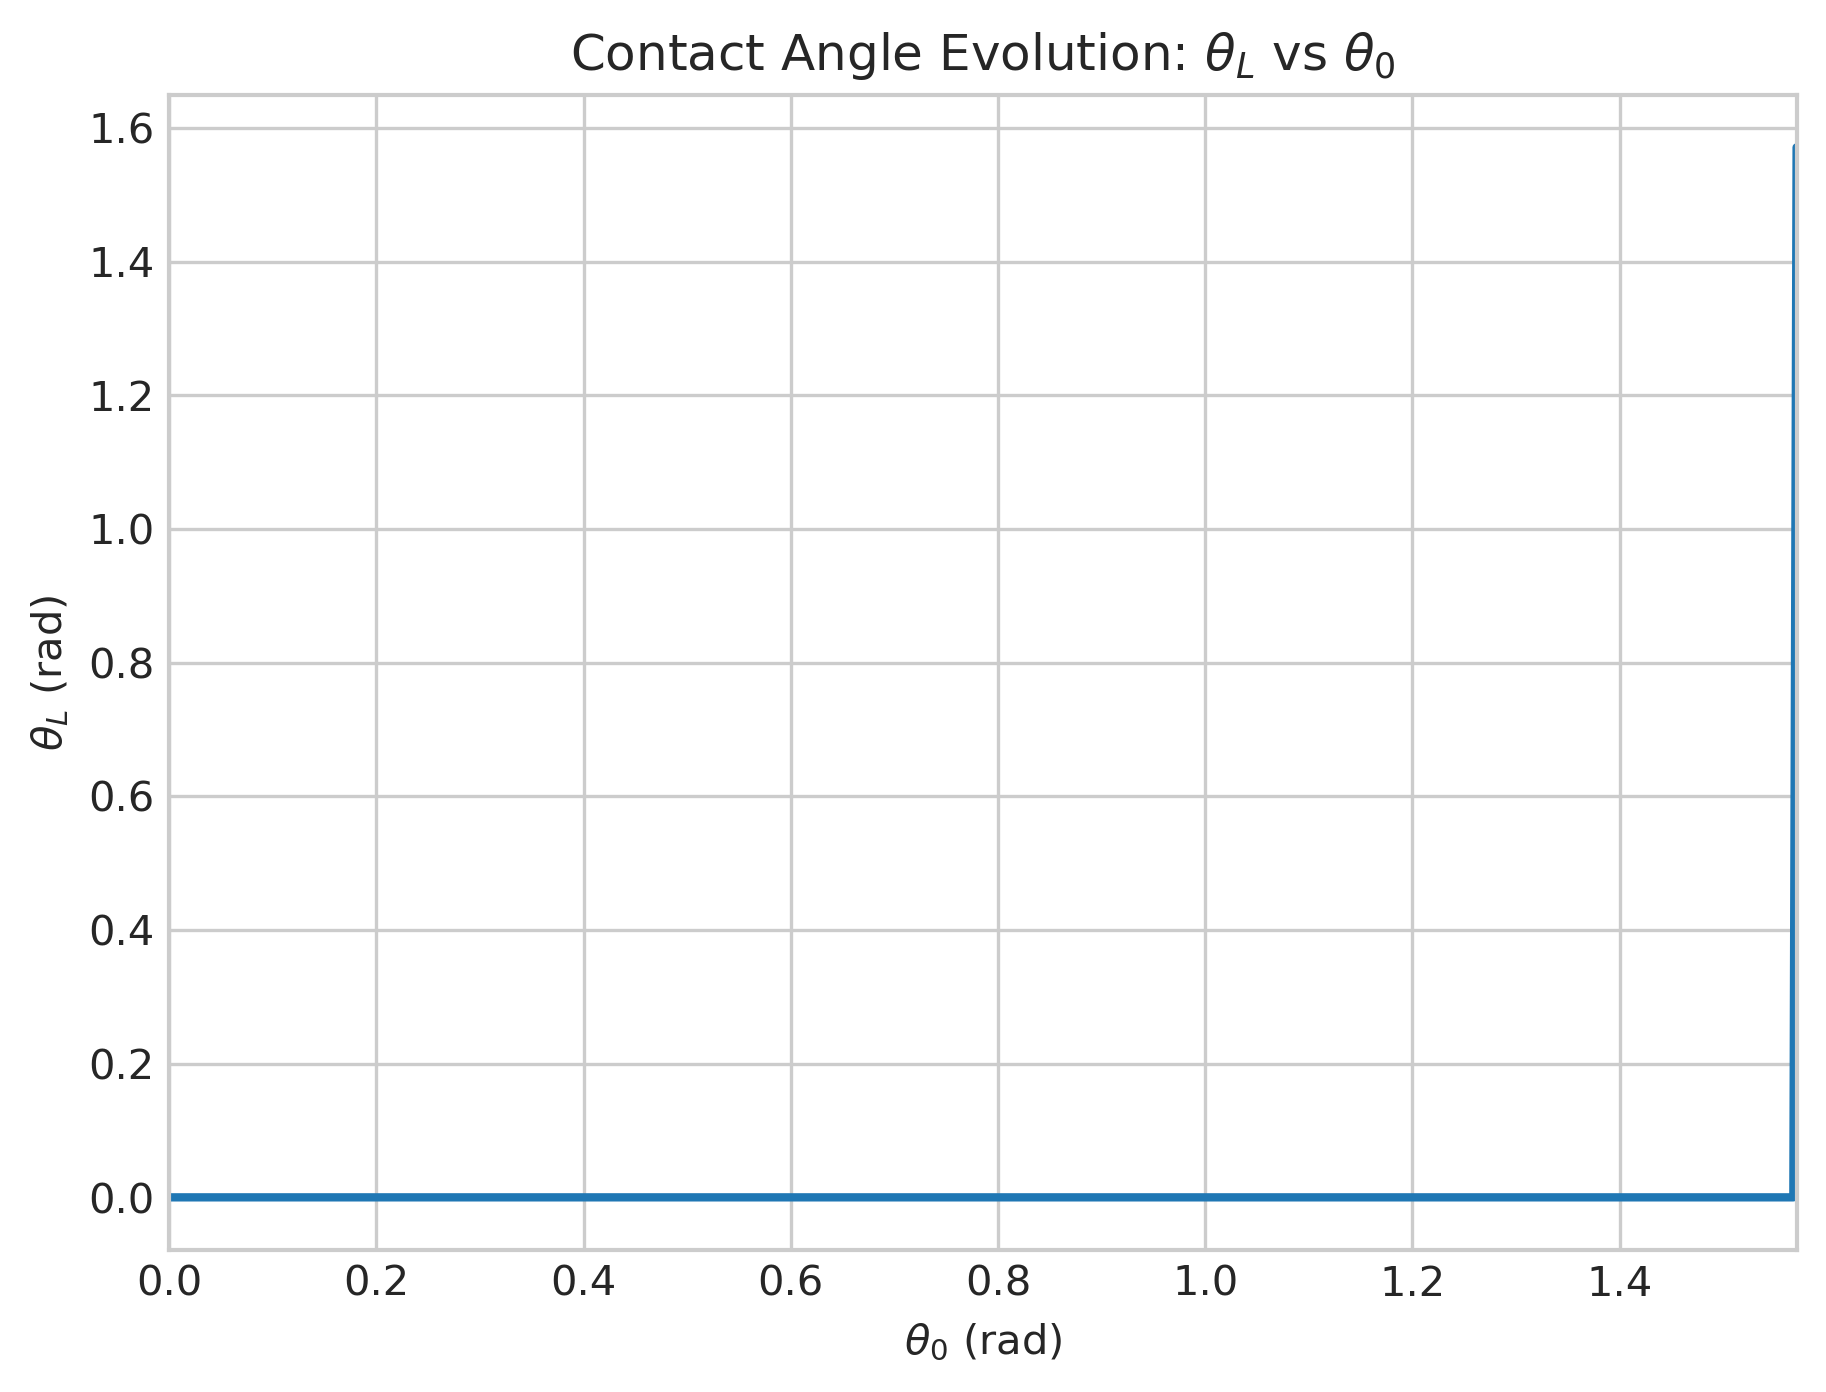
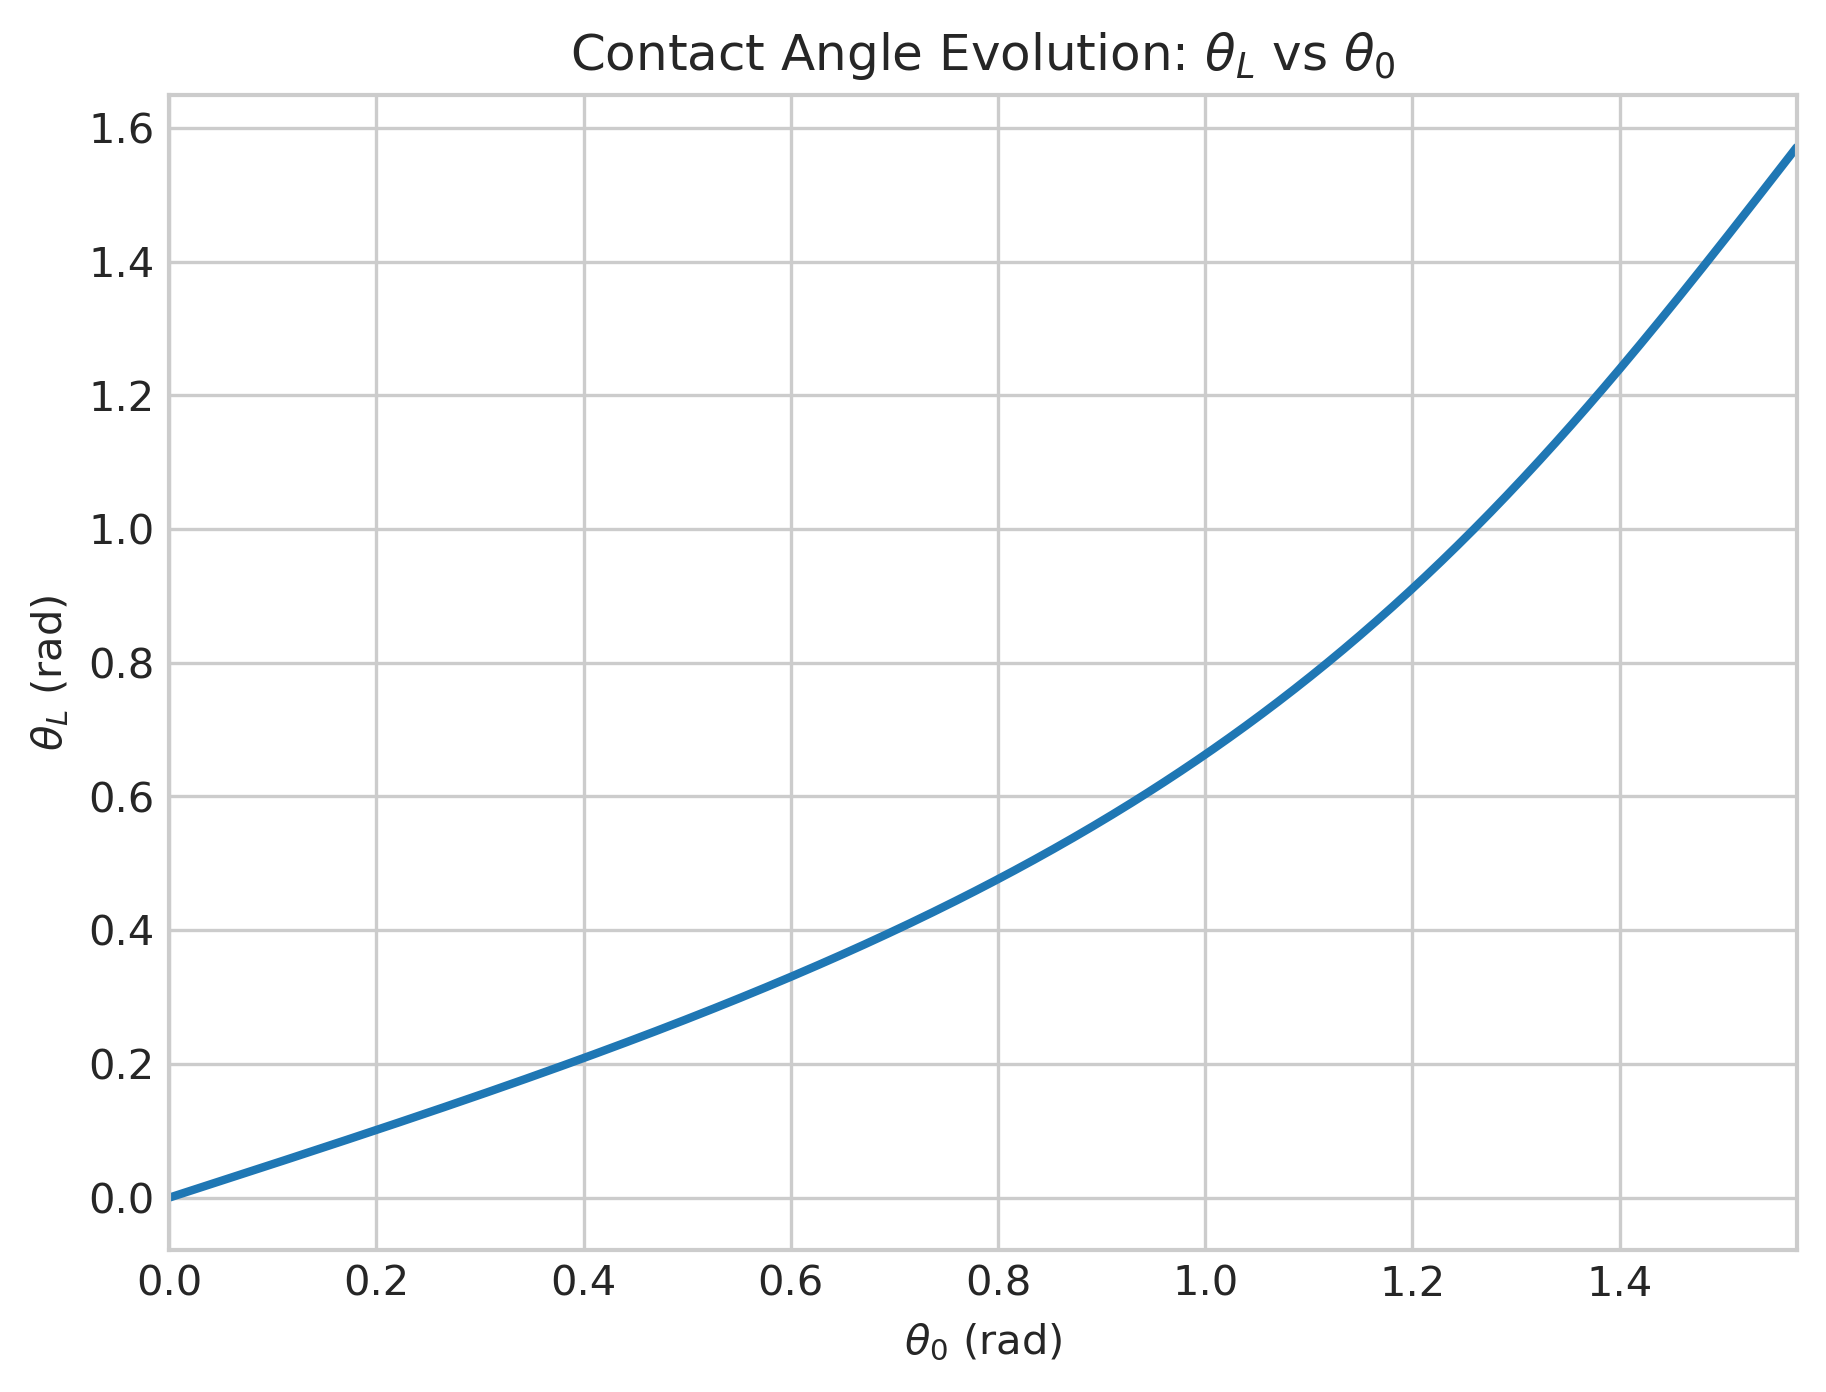
some updates

diff --git a/wedge/thin_film_solver.py b/wedge/thin_film_solver.py
@@ -119,9 +119,7 @@ def compute_curvature(sol, params, x):
 
     return kappa
 
-from scipy.integrate import simpson
-
-def theta_L(theta0, sol, params, nx=1000):
+def theta_L(theta0, sol, params):
     """
     Compute theta_L for an array of theta_0 values.
 
@@ -130,35 +128,27 @@ def theta_L(theta0, sol, params, nx=1000):
     theta0  : 1-d array of initial angles
     sol     : scipy.integrate.solve_bvp result
     params  : dataclass with mu, gamma, v_web, beta, L
-    nx      : number of quadrature points for the integral
 
     Returns
     -------
     thetaL  : 1-d array, same shape as theta0
     """
     p = params
-    x = np.linspace(0, p.L, nx)
+    coeff = p.gamma / (3 * p.mu) # 3 is for average, 2 is for top
 
-    # Evaluate BVP solution
-    y = sol.sol(x)
-    h    = y[0]
-    hp   = y[1]
-    hppp = y[3]
+    # Evaluate u(x) = v_web*sin(beta) + (gamma/2mu)*h'''*h^2 at endpoints
+    y0 = sol.sol(.01*p.L)
+    yL = sol.sol(.99*p.L)
 
-    # h'''' from the ODE RHS
-    h_safe = np.where(np.abs(h) > 1e-8, h, 1e-8)
-    hpppp = (-hp * hppp
-             - (3 * p.mu / p.gamma)
-               * (p.v_evap + p.v_web * np.sin(p.beta) * hp)) / h_safe
+    u0 = p.v_web * np.sin(p.beta) + coeff * y0[3] * y0[0]**2
+    uL = p.v_web * np.sin(p.beta) + coeff * yL[3] * yL[0]**2
 
-    # Integrand N(x) / D(x)
-    coeff = p.gamma / (2 * p.mu)
-    N = coeff * (hpppp * h**2 + 2 * h * hp * hppp)
-    D = p.v_web * np.sin(p.beta) + coeff * hppp * h**2
-
-    integrand = N / D
-    I = simpson(integrand, x=x)
-
+    I = np.log(np.abs(uL / u0))
+    
+    # Some prints to check some things
+    #print(f'u0: {u0}')
+    #print(f'uL: {uL}')
+    
     # theta_L for each theta_0
     T = np.arctanh(np.cos(2 * theta0)) + I
     thetaL = 0.5 * np.arccos(np.tanh(T))

diff --git a/carreau_sak/new_thickening_deriv.py b/carreau_sak/new_thickening_deriv.py
@@ -137,11 +137,11 @@ def plot_alpha_03():
     mask = (x > 1e-6) & (f > 0.0) & np.isfinite(fasym) & (fasym > 0.0)
 
     plt.figure(figsize=(8, 5.5))
-    plt.loglog(x[mask], f[mask], lw=3.2, label=r"Numerical Power Law Solution, Shear-Thinning, alpha < 1/2") #alpha={alpha}")
-    plt.loglog(x[mask], fasym[mask], "--", lw=3.0, label=r"Asymptotic $A \eta^p$")
-    plt.xlabel(r"\eta")
-    plt.ylabel(r"f(\eta)")
-    plt.title("New Solutiuon Asymptotic For Shear-Thinning Blasius")
+    plt.loglog(x[mask], f[mask], lw=3.2, label=r"Numerical Solution") #alpha={alpha}")
+    plt.loglog(x[mask], fasym[mask], "--", lw=3.0, label=r"Asymptotic")
+    plt.xlabel(r"$\eta$")
+    plt.ylabel(r"$f(\eta)$")
+    # plt.title("New Solutiuon Asymptotic For Shear-Thinning Blasius")
     plt.legend()
     plt.tight_layout()
     plt.savefig("new_thinning_asymptotic.png", dpi=200)
@@ -151,7 +151,7 @@ def plot_alpha_03():
 
 
 def plot_alpha_14_f4():
-    alpha = 1.5
+    alpha = 1.4
     L = 30.0
     s = find_shooting_fpp0(alpha, L)
     # sol = integrate_profile(alpha, s, .5 * L, npts=10000, rtol=.5*1e-7, atol=1e-9)
@@ -166,9 +166,9 @@ def plot_alpha_14_f4():
 
     plt.figure(figsize=(8, 5.5))
     plt.plot(x, f4, lw=3, label=r"$f''''(x)$")
-    plt.xlabel(r"\eta")
+    plt.xlabel(r"$\eta$")
     plt.ylabel(r"$f''''(\eta)$")
-    plt.title("Singular Solution in Shear-Thickening Case for Power-Law Sakiadis")
+    # plt.title("Singular Solution in Shear-Thickening Case for Power-Law Sakiadis")
     # plt.legend()
     plt.tight_layout()
     plt.savefig("new_thickening_deriv.png", dpi=200)

diff --git a/buzzpoint_analysis/distro_anal.py b/buzzpoint_analysis/distro_anal.py
@@ -3,6 +3,7 @@ import pandas as pd
 import matplotlib
 matplotlib.use('Agg')
 from matplotlib import pyplot as plt
+import numpy as np
 
 # First, let's get the distribution from the database
 conn = sqlite3.connect('full_db.db')
@@ -20,10 +21,11 @@ tossup_df = pd.read_sql('SELECT id, question FROM tossup', conn)
 df = buzz_df.merge(tossup_df, left_on='tossup_id', right_on='id', how='left', suffixes=("", "_lookup"))
 
 # Now, we compute the celerity of all the correct buzzes
-df['celerity'] = 1 - df['buzz_position'] / df['question'].str.split(r'\s+').str.len()
+df['celerity'] = np.clip(1 - df['buzz_position'] / df['question'].str.split(r'\s+').str.len(), 0, 1)
 
+# Okay, do the actual plotting
 fig, ax = plt.subplots(figsize=(8, 5))
-ax.hist(df['celerity'].dropna(), bins=40, color='steelblue', edgecolor='white', linewidth=0.5)
+ax.hist(df['celerity'].dropna(), bins=30, color='steelblue', edgecolor='white', linewidth=0.5)
 ax.set_xlabel('Celerity', fontsize=13)
 ax.set_ylabel('Count', fontsize=13)
 ax.set_title('Distribution of Buzz Celerity', fontsize=15)

diff --git a/buzzpoint_analysis/nats_simulation.py b/buzzpoint_analysis/nats_simulation.py
@@ -48,7 +48,7 @@ NUM_PLAYOFF_BRACKETS = 4
 TEAMS_PER_PLAYOFF_BRACKET = 12  # = NUM_TEAMS / NUM_PLAYOFF_BRACKETS
 
 # Number of simulation trials (each trial fits ~724 params via optimization — may be slow)
-N_TRIALS = 50
+N_TRIALS = 500
 
 # Output directory for plots
 OUTPUT_DIR = "nats_sims_results"
